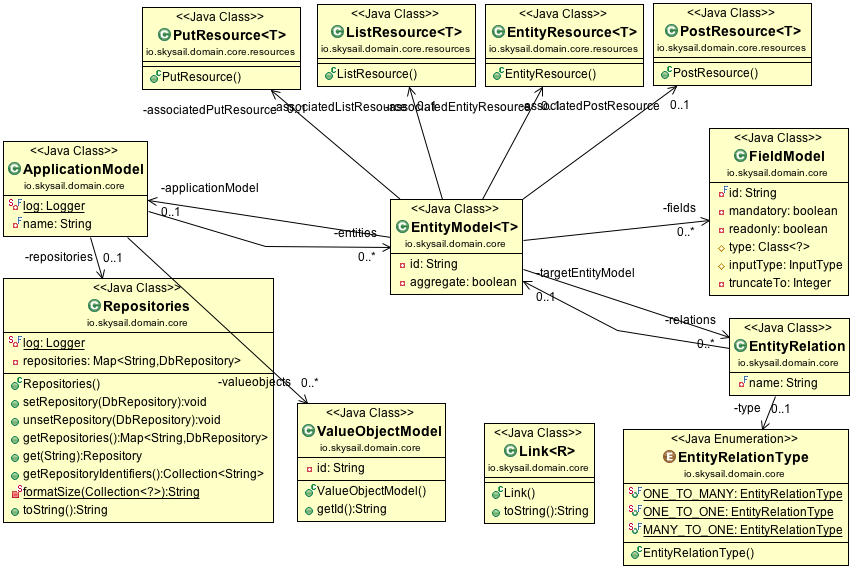
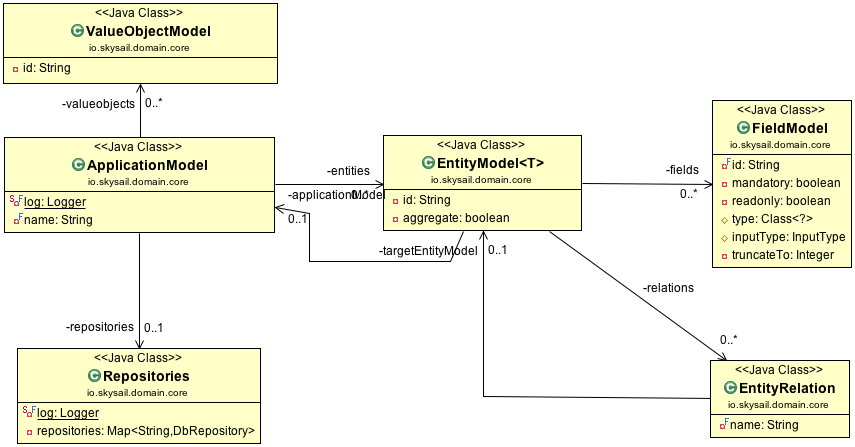
cleanup

diff --git a/skysail.domain/src/io/skysail/domain/core/EntityModel.java b/skysail.domain/src/io/skysail/domain/core/EntityModel.java
@@ -11,10 +11,6 @@ import java.util.Set;
 import org.apache.commons.lang.StringUtils;
 
 import io.skysail.domain.Identifiable;
-import io.skysail.domain.core.resources.EntityResource;
-import io.skysail.domain.core.resources.ListResource;
-import io.skysail.domain.core.resources.PostResource;
-import io.skysail.domain.core.resources.PutResource;
 import lombok.AccessLevel;
 import lombok.Getter;
 import lombok.NoArgsConstructor;
@@ -50,11 +46,6 @@ public class EntityModel<T extends Identifiable> {
     /** should be set once an entity model is added to an application. */
     private ApplicationModel applicationModel;
     
-//    private ListResource<T> associatedListResource;
-//    private EntityResource<T> associatedEntityResource;
-//    private PutResource<T> associatedPutResource;
-//    private PostResource<T> associatedPostResource;
-
     public EntityModel(@NonNull String fullQualifiedClassName) {
         this.id = fullQualifiedClassName;
     }
@@ -92,9 +83,10 @@ public class EntityModel<T extends Identifiable> {
         return id.substring(indexOfLastDot+1);
     }
     
-    public EntityModel<?> getAggregateRoot() {
+    @SuppressWarnings("unchecked")
+	public EntityModel<Identifiable> getAggregateRoot() {
         if (isAggregate()) {
-            return this;
+            return (EntityModel<Identifiable>)this;
         }
         if (getApplicationModel() != null) {
             
@@ -119,7 +111,6 @@ public class EntityModel<T extends Identifiable> {
     public String toString(int indentation) {
         StringBuilder sb = new StringBuilder(this.getClass().getSimpleName()).append(": ");
         sb.append("id='").append(id).append("', isAggregate=").append(isAggregate()).append("\n");
-        //resourcesToString(sb);
         fieldsToString(sb);
         relationsToString(sb);
         return sb.toString();
@@ -144,40 +135,5 @@ public class EntityModel<T extends Identifiable> {
                 key -> sb.append(StringUtils.repeat(" ", 3)).append(" - ").append(fields.get(key).toString()).append("\n")
         );
     }
-
-//    private void resourcesToString(StringBuilder sb) {
-//        if (fields.isEmpty()) {
-//            return;
-//        }
-//        if (getAssociatedListResource() != null) {
-//            sb.append(StringUtils.repeat(" ", 3)).append("List Resource: ").append(getAssociatedListResource().getResourceClass().getName()).append("\n");
-//		}
-//		if (getAssociatedEntityResource() != null) {
-//            sb.append(StringUtils.repeat(" ", 3)).append("Entity Resource: ").append(getAssociatedEntityResource().getResourceClass().getName()).append("\n");
-//		}
-//		if (getAssociatedPutResource() != null) {
-//            sb.append(StringUtils.repeat(" ", 3)).append("Put Resource: ").append(getAssociatedPutResource().getResourceClass().getName()).append("\n");
-//		}
-//		if (getAssociatedPostResource() != null) {
-//            sb.append(StringUtils.repeat(" ", 3)).append("Post Resource: ").append(getAssociatedPostResource().getResourceClass().getName()).append("\n");
-//		}
-//    }
-//
-//	public void addAssociatedResources(EntityModel<? extends Identifiable> otherEntityModel) {
-//		if (otherEntityModel.getAssociatedListResource() != null) {
-//			setAssociatedListResource(otherEntityModel.getAssociatedListResource().getResourceClass());
-//		}
-//		if (otherEntityModel.getAssociatedEntityResource() != null) {
-//			setAssociatedEntityResource(otherEntityModel.getAssociatedEntityResource().getResourceClass());
-//		}
-//		if (otherEntityModel.getAssociatedPutResource() != null) {
-//			setAssociatedPutResource(otherEntityModel.getAssociatedPutResource().getResourceClass());
-//		}
-//		if (otherEntityModel.getAssociatedPostResource() != null) {
-//			setAssociatedPostResource(otherEntityModel.getAssociatedPostResource().getResourceClass());
-//		}
-//		
-//	}
-
 
 }

diff --git a/skysail.domain/test/io/skysail/domain/core/test/EntityModelTest.java b/skysail.domain/test/io/skysail/domain/core/test/EntityModelTest.java
@@ -18,7 +18,7 @@ public class EntityModelTest {
 
     @Test
     public void construct_from_full_path_initializes_correct() {
-        EntityModel entity = new EntityModel("io.skysail.domain.core.test.AThing");
+        EntityModel<AThing> entity = new EntityModel<>("io.skysail.domain.core.test.AThing");
         assertThat(entity.getFields().size(), is(0));
         assertThat(entity.getPackageName(), is("io.skysail.domain.core.test"));
         assertThat(entity.getSimpleName(), is("AThing"));
@@ -26,7 +26,7 @@ public class EntityModelTest {
 
     @Test
     public void construct_from_default_path_initializes_correct() {
-        EntityModel entity = new EntityModel("AThing");
+        EntityModel<AThing> entity = new EntityModel<>("AThing");
         assertThat(entity.getFields().size(), is(0));
         assertThat(entity.getPackageName(), is(""));
         assertThat(entity.getSimpleName(), is("AThing"));
@@ -34,7 +34,7 @@ public class EntityModelTest {
 
     @Test
     public void added_field_can_be_retrieved_again() {
-        EntityModel entity = new EntityModel("AThing");
+        EntityModel<AThing> entity = new EntityModel<>("AThing");
         FieldModel field = new FieldModel("fieldname", String.class);
         entity.add(field);
         assertThat(entity.getFields().size(), is(1));
@@ -43,10 +43,10 @@ public class EntityModelTest {
 
     @Test
     public void toString_is_formatted_nicely() {
-        EntityModel entity = new EntityModel("AThing");
+        EntityModel<AThing> entity = new EntityModel<>("AThing");
         entity.add(new FieldModel("fieldname1", String.class));
         entity.add(new FieldModel("fieldname2", String.class));
-        entity.setRelations(Arrays.asList(new EntityRelation("relName", new EntityModel("ASubThing"), EntityRelationType.ONE_TO_MANY)));
+        entity.setRelations(Arrays.asList(new EntityRelation("relName", new EntityModel<AThing>("ASubThing"), EntityRelationType.ONE_TO_MANY)));
 
         String[] toString = entity.toString().split("\n");
         
@@ -63,9 +63,9 @@ public class EntityModelTest {
     public void finds_parent_AggregateRoot() {
         ApplicationModel applicationModel = new ApplicationModel("appName");
         
-        EntityModel entityModel = new EntityModel("rootEntity");
+        EntityModel<AThing> entityModel = new EntityModel<>("rootEntity");
         entityModel.setAggregate(true);
-        EntityModel subEntityModel = new EntityModel("subEntity");
+        EntityModel<AThing> subEntityModel = new EntityModel<>("subEntity");
         subEntityModel.setAggregate(false);
         entityModel.setRelations(Arrays.asList(new EntityRelation("relation", subEntityModel, EntityRelationType.ONE_TO_MANY)));
         applicationModel.addOnce(entityModel);

diff --git a/skysail.domain/src/io/skysail/domain/core/ApplicationModel.java b/skysail.domain/src/io/skysail/domain/core/ApplicationModel.java
@@ -1,7 +1,6 @@
 package io.skysail.domain.core;
 
 import java.util.Collection;
-import java.util.HashMap;
 import java.util.LinkedHashMap;
 import java.util.List;
 import java.util.Map;
@@ -60,11 +59,9 @@ public class ApplicationModel {
      * Otherwise, the entity will be added and the current application will be set
      * in the entity.
      */
-    public ApplicationModel addOnce(@NonNull EntityModel<? extends Identifiable> entityModel) {
+    public <T extends Identifiable> ApplicationModel addOnce(@NonNull EntityModel<T> entityModel) {
         if (entities.get(entityModel.getId()) != null) {
             log.debug("entity {} already exists - not adding to application {}", entityModel.getId(), this.getName());
-            EntityModel<? extends Identifiable> existingEntityModel = entities.get(entityModel.getId());
-           // existingEntityModel.addAssociatedResources(entityModel);
             return this;
         }
         log.debug("adding entity model with id '{}'", entityModel.getId());

diff --git a/skysail.domain/src/io/skysail/domain/core/resources/Resource.java b/skysail.domain/src/io/skysail/domain/core/resources/Resource.java
@@ -1,17 +1,13 @@
 package io.skysail.domain.core.resources;
 
 import io.skysail.domain.Identifiable;
-import io.skysail.domain.core.Link;
-
-import java.util.List;
-
-import lombok.*;
+import lombok.Getter;
+import lombok.Setter;
+import lombok.ToString;
 
 @Getter
 @Setter
 @ToString
 public abstract class Resource<T extends Identifiable>  {
-
-    private List<Link<?>> links;
 
 }

diff --git a/skysail.domain/test/io/skysail/domain/core/test/ApplicationModelTest.java b/skysail.domain/test/io/skysail/domain/core/test/ApplicationModelTest.java
@@ -25,10 +25,6 @@ public class ApplicationModelTest {
     	private String id;
 	}
 
-	@Before
-    public void setUp() throws Exception {
-    }
-
     @Test
     public void simple_application_structure_can_be_created() {
         ApplicationModel app = new ApplicationModel("app17")
